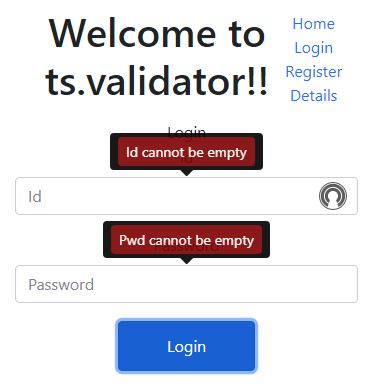
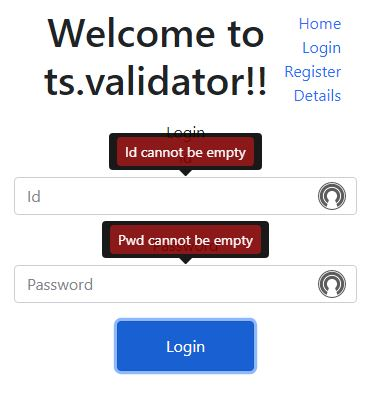
right aligned menu. changed pics.

diff --git a/src/app/app.component.html b/src/app/app.component.html
@@ -9,7 +9,7 @@
                                         Welcome to ts.validator!!
                                     </h1>
                                 </td>
-                                <td>
+                                <td style="text-align: right">
                                     <ul class="nav navbar-nav">
                                     <li><a routerLink="/home">Home</a></li>
                                     <li><a routerLink="/login">Login</a></li>
